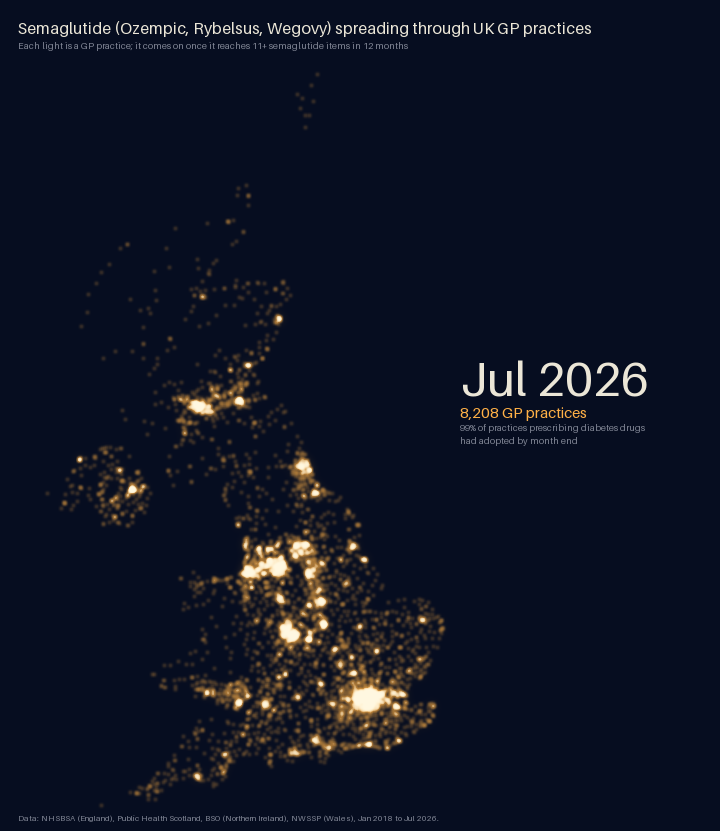
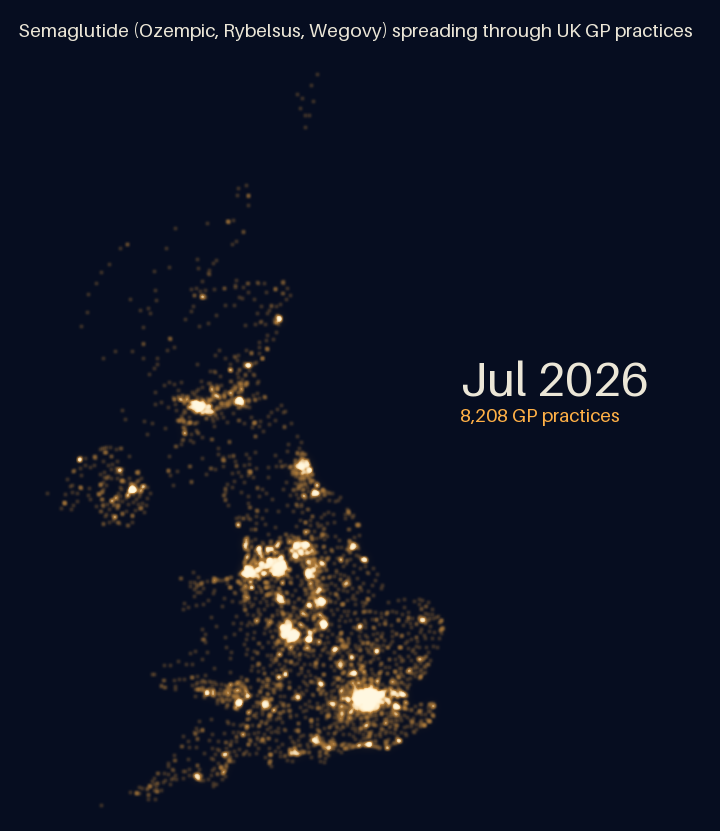
Keep only readable text on the night-lights maps (#46)
The README maps now show just the title (larger), the date and the running
count. The small print (what a light is, the percentage adopted, the sources)
moves to the README captions, where it can be read; --detailed puts it back
for a map shared on its own.

diff --git a/src/semaglutide_spread/viz/night_lights.py b/src/semaglutide_spread/viz/night_lights.py
@@ -34,6 +34,7 @@ Usage:
     uv run night-lights                       # both maps
     uv run night-lights --country uk
     uv run night-lights --show-population-at-risk   # add the blue denominator layer
+    uv run night-lights --detailed            # add the small print, for sharing on its own
 """
 
 from __future__ import annotations
@@ -415,25 +416,48 @@ def format_pct(pct: float) -> str:
     return f"{pct:.1f}" if pct < 10 or 99.5 <= pct < 100 else f"{pct:.0f}"
 
 
+def fitted_font(text: str, size: int, max_width: float):
+    """The largest font, up to `size`, that fits `text` in `max_width` pixels."""
+    while size > 8 and font(size).getlength(text) > max_width:
+        size -= 1
+    return font(size)
+
+
 def annotate(
-    frame: np.ndarray, data: MapData, country: Country, t: float, adopted: int
+    frame: np.ndarray,
+    data: MapData,
+    country: Country,
+    t: float,
+    adopted: int,
+    detailed: bool = False,
 ) -> Image.Image:
-    """Add the title, the date, the running count and the source line."""
+    """Add the title, the date and the running count. With `detailed`, also the subtitle,
+    the percentage adopted and the source line: small print that suits an image shared on
+    its own, not the README, where the caption says the same at a readable size."""
     image = Image.fromarray(frame)
     draw = ImageDraw.Draw(image)
     w, h = image.size
     s = w / 960  # text scales with image width
     pad = int(24 * s)
-    draw.text((pad, pad), country.title, font=font(int(22 * s)), fill=TEXT)
-    draw.text((pad, pad + int(30 * s)), country.subtitle, font=font(int(13 * s)), fill=SUBTLE)
+    title_size = int((22 if detailed else 28) * s)
+    draw.text((pad, pad), country.title, font=fitted_font(country.title, title_size, w - 2 * pad),
+              fill=TEXT)  # fmt: skip
+    if detailed:
+        draw.text((pad, pad + int(30 * s)), country.subtitle, font=font(int(13 * s)), fill=SUBTLE)
 
     period = period_of(t, country, data)
     label = period_label(period, country)
     x, y = int(country.stats_at[0] * w), int(country.stats_at[1] * h)
     draw.text((x, y), label, font=font(int(64 * s)), fill=TEXT)
     draw.text(
-        (x, y + int(72 * s)), f"{adopted:,} {country.unit}", font=font(int(20 * s)), fill=WARM_TEXT
+        (x, y + int(72 * s)),
+        f"{adopted:,} {country.unit}",
+        font=font(int((20 if detailed else 26) * s)),
+        fill=WARM_TEXT,
     )
+    if not detailed:
+        return image
+
     pct = data.prevalence_pct.get(period)
     if pct is not None:
         shown = format_pct(pct)
@@ -482,6 +506,7 @@ def render(
     frame_ms: int = 120,
     hold_ms: int = 4000,
     show_at_risk: bool = False,
+    detailed: bool = False,
 ) -> tuple[Path, Path]:
     """Draw every frame from the warehouse behind `con`; save the GIF and the final PNG.
     Both maps have the same pace by default: 10 frames a year, 120 ms each (1.2 s a year)."""
@@ -501,7 +526,7 @@ def render(
     for t in frame_times(data.first_period / ppy, (data.last_period + 1) / ppy, frames_per_year):
         adopted = int((data.adopter_time <= t).sum())
         frame = render_frame(data, grid, t, show_at_risk)
-        frames.append(annotate(frame, data, country, t, adopted))
+        frames.append(annotate(frame, data, country, t, adopted, detailed))
 
     out_dir.mkdir(parents=True, exist_ok=True)
     year, month = divmod(data.last_period, country.periods_per_year)
@@ -534,6 +559,11 @@ def main(argv: list[str] | None = None) -> int:
         action="store_true",
         help="also draw everyone prescribing diabetes drugs as a faint blue speck",
     )
+    parser.add_argument(
+        "--detailed",
+        action="store_true",
+        help="add the small print (what a light is, % adopted, sources), for sharing on its own",
+    )
     args = parser.parse_args(argv)
     logging.basicConfig(level=logging.INFO, format="%(asctime)s %(levelname)s %(message)s")
     countries = COUNTRIES.values() if args.country == "all" else [COUNTRIES[args.country]]
@@ -545,6 +575,7 @@ def main(argv: list[str] | None = None) -> int:
                 width=args.width,
                 frames_per_year=args.frames_per_year,
                 show_at_risk=args.show_population_at_risk,
+                detailed=args.detailed,
             )
     return 0
 

diff --git a/tests/test_dbt_build.py b/tests/test_dbt_build.py
@@ -109,6 +109,12 @@ def test_night_lights_gif_from_the_built_warehouse(built, tmp_path):
         assert image.n_frames == 6  # 3 years x 2 frames
     assert png.name == "us_night_lights_2020.png"
 
+    # The detailed version (small print for sharing on its own) draws too
+    detailed, _ = night_lights.render(
+        built, out_dir=tmp_path / "detailed", width=320, frames_per_year=1, detailed=True
+    )
+    assert detailed.exists()
+
 
 def test_uk_night_lights_gif_from_the_built_warehouse(built, tmp_path):
     from PIL import Image

diff --git a/README.md b/README.md
@@ -6,7 +6,7 @@ How semaglutide (Ozempic, Rybelsus, Wegovy) spread through prescribers in the US
 
 <img src="docs/images/us_night_lights.gif" width="720" alt="Night-lights map: each US Medicare prescriber lights up in the year they first prescribe semaglutide, 2018 to 2024">
 
-*Each light is a Medicare Part D prescriber, switched on in the year they first prescribed semaglutide (11+ claims). Brighter areas have more adopters, partly because they have more prescribers. Timing within each year is illustrative: the data are yearly.*
+*Each light is a Medicare Part D prescriber, switched on in the year they first prescribed semaglutide (11+ claims). Brighter areas have more adopters, partly because they have more prescribers. Timing within each year is illustrative: the data are yearly. Data: CMS Medicare Part D Prescribers, 2018-2024, contiguous US.*
 
 > **Status:** Milestones 1 (US) and 2 (UK) are complete. Comparing the two is next; see the [roadmap](#roadmap).
 
@@ -29,7 +29,7 @@ Epidemiologists track how a disease moves through a population: who catches it f
 
 <img src="docs/images/uk_night_lights.gif" width="720" alt="Night-lights map: each UK GP practice lights up once it reaches 11+ semaglutide items in 12 months, January 2018 to July 2026">
 
-*Each light is an NHS GP practice in England, Scotland, Wales or Northern Ireland, switched on in the first month its past 12 months add up to 11+ semaglutide items, the closest match to the US rule (11+ claims in a year). Both maps run at the same pace, 1.2 seconds a year; the UK's runs longer because its data go to July 2026. The UK data are monthly, so the timing is real to the month. Brighter areas have more adopting practices, partly because they have more practices.*
+*Each light is an NHS GP practice in England, Scotland, Wales or Northern Ireland, switched on in the first month its past 12 months add up to 11+ semaglutide items, the closest match to the US rule (11+ claims in a year). Both maps run at the same pace, 1.2 seconds a year; the UK's runs longer because its data go to July 2026. The UK data are monthly, so the timing is real to the month. Brighter areas have more adopting practices, partly because they have more practices. Data: NHSBSA (England), Public Health Scotland, BSO (Northern Ireland) and NWSSP (Wales).*
 
 <picture>
   <source media="(prefers-color-scheme: dark)" srcset="docs/images/uk_adoption_curve_dark.png">
@@ -175,7 +175,8 @@ Build the warehouse and draw the figures:
 
 ```bash
 uv run build-warehouse       # dbt build with all data tests: ~2 minutes, writes data/warehouse.duckdb
-uv run night-lights          # docs/images/{us,uk}_night_lights.gif and a still of each last frame (~45 s)
+uv run night-lights          # docs/images/{us,uk}_night_lights.gif and a still of each last frame (~45 s);
+                             # --detailed adds the small print, for sharing a map on its own
 uv run adoption-curve        # docs/images/{us,uk}_adoption_curve_*.png and uk_nations_adoption_*.png
 ```
 
